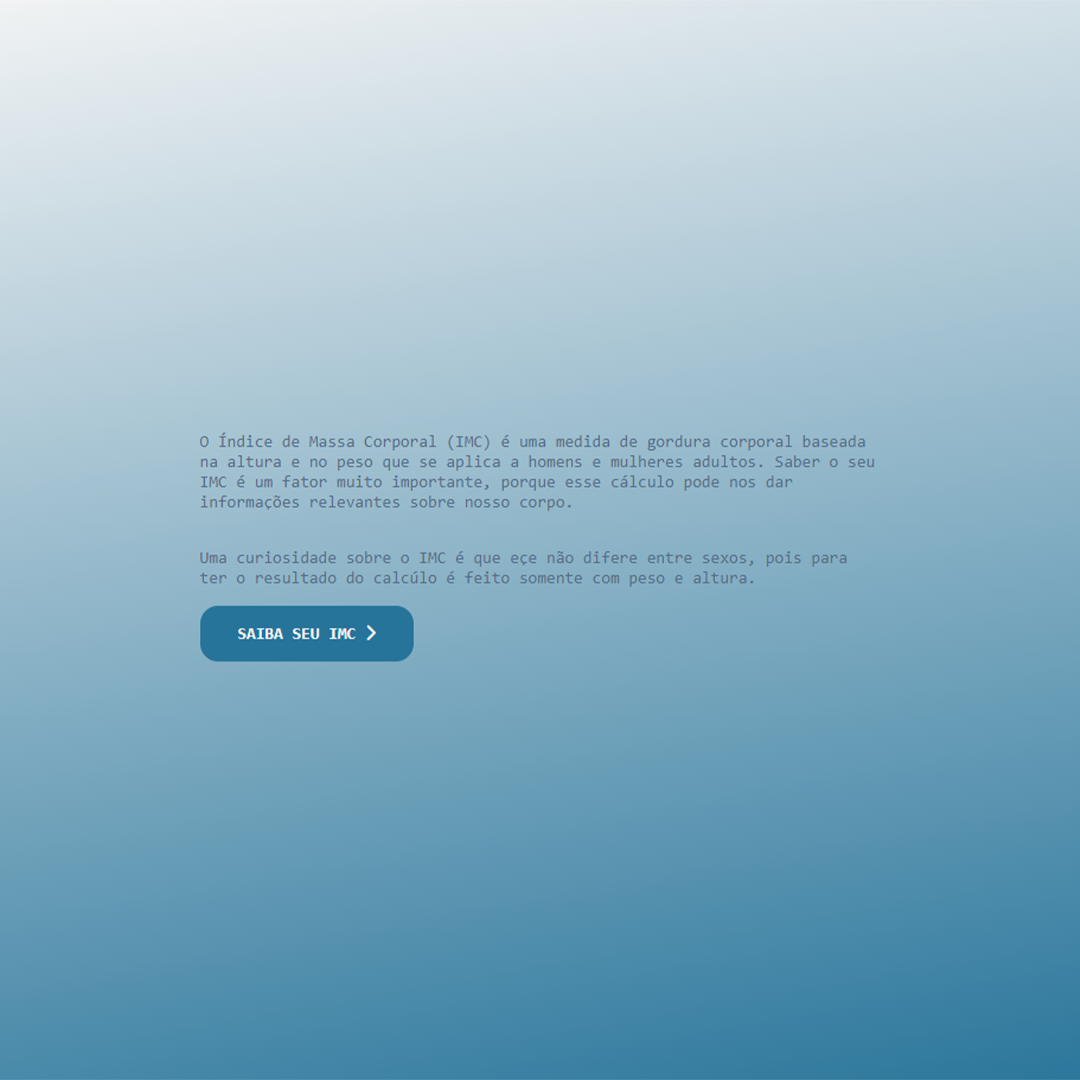
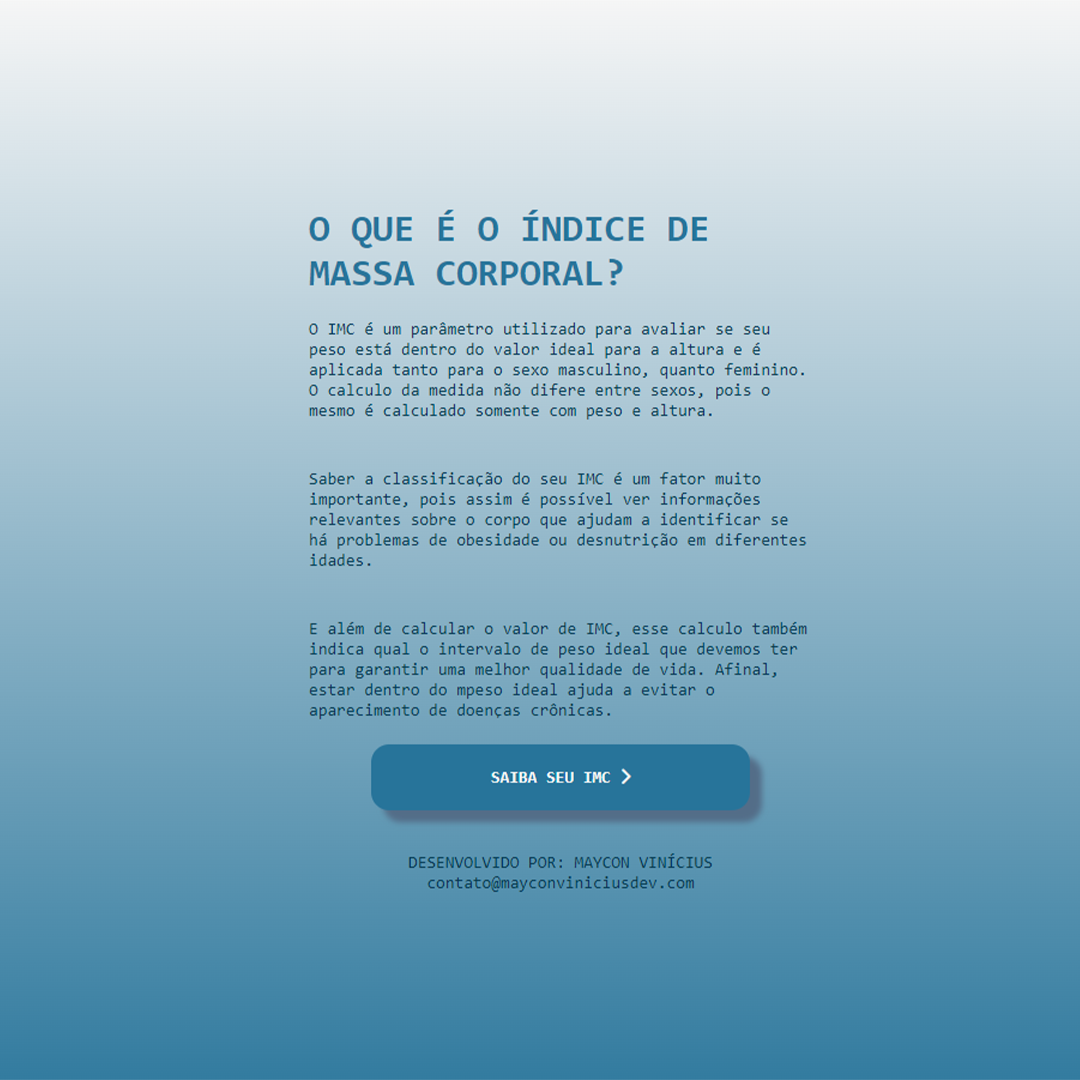
Alterações no projeto.

Changed region(s): [[0.1833, 0.1833, 0.7944, 0.7639], [0.6722, 0.0, 1.0, 0.3667], [0.3667, 0.7944, 0.6722, 0.825]]

diff --git a/calculation.html b/calculation.html
@@ -12,20 +12,82 @@
     </head>
 
     <body>
-        <div class="imc">
-            <a class="back" href="index.html"><i class="fa-solid fa-chevron-left"></i> VOLTAR</a>
-            <h2>PREENCHA SUAS</h2>
-            <h2>INFORMAÇÕES ABAIXO:</h2>
+        <div class="content">
+            <div class="text">
+                <a class="back" href="index.html"><i class="fa-solid fa-chevron-left"></i> VOLTAR PARA O ÍNICIO</a>
+                <h2>COMO INTERPRETAR O RESULTADO DO IMC?</h2>
+                <p>O resultado do IMC, deve ser interpretado utilizando a seguinte tabela:</p>
+                
+                <table>
+                    <thead>
+                        <tr>
+                            <th>ÍNDICE MASSA CORPORAL (kg/m<sup>2</sup>)</th>
+                            <th>CLASSIFICAÇÃO</th>
+                        </tr>
+                    </thead>
 
-            <p>Sua altura (exemplo: 1,68)</p>
-            <input type="number" name="altura" id="altura" placeholder="00.0 m">
+                    <tbody>
+                        <tr>
+                            <td>ENTRE 16 - 16.9</td>
+                            <td>MAGREZA</td>
+                        </tr>
 
-            <p>Seu peso (exemplo: 72)</p>
-            <input type="number" name="peso" id="peso" placeholder="00.0 kg"><br>
-        
-            <button>CALCULAR IMC <i class="fa-solid fa-chevron-right"></i></button><br>
-            <div id="resultado"></div>
-        </div><!-- imc -->
+                        <tr>
+                            <td>ENTRE 17 - 18.4</td>
+                            <td>PESO BAIXO</td>
+                        </tr>
+
+                        <tr>
+                            <td>ENTRE 18.5 - 24.9</td>
+                            <td>PESO NORMAL</td>
+                        </tr>
+
+                        <tr>
+                            <td>ENTRE 25 - 29.9</td>
+                            <td>SOBREPESO</td>
+                        </tr>
+
+                        <tr>
+                            <td>ENTRE 30 - 34.9</td>
+                            <td>OBESIDADE GRAU I</td>
+                        </tr>
+
+                        <tr>
+                            <td>ENTRE 35 - 39.9</td>
+                            <td>OBESIDADE GRAU II</td>
+                        </tr>
+
+                        <tr>
+                            <td>MAIOR QUE 40</td>
+                            <td>OBESIDADE GRAU III</td> 
+                        </tr>
+                    </tbody>
+                </table>
+
+                <p>É interessante que o resultado do IMC seja interpretado com um nutricionista, que poderá indicar uma dieta de acordo com seus objetivos e histórico de saúde.</p>
+                <p>Embora o IMC seja uma boa ferramenta para entender se seu peso está ou não adequado, o mesmo não é a melhor forma de avaliação. O ideal é consultar um nutricionista para avaliar seu IMC juntamente com outros fatores.</p>
+            </div><!-- text -->
+            
+            <div class="calc">
+                <h2>CALCULANDO SEU IMC</h2>
+                <p>Insire seus dados abaixo:</p>
+                <form>
+                    <p>Sua altura (exemplo: 1,68)</p>
+                    <input type="number" name="altura" id="altura" placeholder="00.0 m">
+
+                    <p>Seu peso (exemplo: 72)</p>
+                    <input type="number" name="peso" id="peso" placeholder="00.0 kg"><br>
+                </form>
+
+                <button>CALCULAR IMC <i class="fa-solid fa-chevron-right"></i></button><br>
+                <div id="resultado"></div>
+            </div><!-- calc -->
+
+            <footer>
+                <ul><a href="#"><i class="fas fa-long-arrow-alt-up"></i>IR PARA O TOPO</a></ul>
+                <p>DESENVOLVIDO POR: MAYCON VINÍCIUS<br><span>contato@mayconviniciusdev.com</span></p>
+            </footer>
+        </div><!-- content -->
     
         <script src="assets/js/jquery360min.js"></script>
         <script src="assets/js/scripts.js"></script>

diff --git a/assets/scss/calculation.scss b/assets/scss/calculation.scss
@@ -1,50 +1,77 @@
 @import 'global.scss';
 
-.imc 
-{
-    .back 
-    {font-size: 12px; 
-    text-decoration: none;
-    margin-bottom: 8%;
-    color: #4C4C4C;
-    display: inline-block;}
+.content
+{max-width: 550px;
+margin: 5%;
 
-    h2 {font-size: 20px; color: #536D88;}
+    a, p {font-size: 14px;}
+    .text 
+    {color: #013750;
+        
+        .back 
+        {text-decoration: none;
+        margin-bottom: 3%;
+        color: #013750 !important;
+        display: inline-block;}
 
-    p
-    {font-size: 14px;
-    color: #536D88;
-    font-weight: 300;
-    margin: 25px 0 10px 0;}
-
-    input
-    {border-radius: 12px;
-    border: 1px solid #27749a;
-    height: 40px;
-    background-color: transparent;
-        &[type=number] 
-        {outline: none;
-        display: block;
-        padding: 0 15px;
-        font-size: 14px;
-        color: #27749a;
-        font-weight: 400;}
+        p {margin-top: 10px;}
+        table 
+        {-webkit-box-shadow: 0px 0px 20px 10px rgba(83,109,136,1);
+        -moz-box-shadow: 0px 0px 20px 10px rgba(83,109,136,1);
+        box-shadow: 0px 0px 20px 10px rgba(83,109,136,1);
+        width: 100%;
+        margin: 35px 0;
+            th, td {padding: 10px; font-weight: bold;}
+            thead {background-color: #013750; color: #F6F6F6; font-size: 18px}
+            tbody tr:nth-child(even) {background-color: #536D88; color: #F6F6F6;}
+        }
     }
+
+    .calc 
+    {color: #27749a;
+    padding-top: 60px;
+    display: grid;
+    justify-content: center;
     
-    button
-    {background-color: #27749a;
-    cursor: pointer;
-    padding: 10px;
-    color: #F6F6F6;
-    font-weight: bold;    
-    line-height: 25px;
-    border: 0;
-    border-radius: 15px;}
+        p {margin-top: 5px; color: #013750;}
+        form 
+        {
+            p {margin-top: 30px;}
+            input
+            {border-radius: 10px;
+            width: 100%;
+            margin-top: 10px;
+            height: 40px;
+            border: 1px solid #27749a;
+            background-color: transparent;
+                &[type=number] 
+                {outline: none;
+                display: block;
+                padding: 0 15px;
+                color: #013750;
+                font-weight: 400;
+                    &::-webkit-input-placeholder {color: #013750;}
+                }
+            }        
+        } 
 
-    #resultado 
-    {color: #536D88;
-    font-size: 14px;
-    margin-top: 15px;}
-} 
+        button 
+        {background-color: #013750;
+        cursor: pointer;
+        padding: 15px;
+        color: #F6F6F6;
+        width: 100%;
+        font-weight: bold;    
+        line-height: 25px;
+        border: 0;
+        border-radius: 15px;
+        -webkit-box-shadow: 10px 10px 5px 0px rgba(83,109,136,1);
+        -moz-box-shadow: 10px 10px 5px 0px rgba(83,109,136,1);
+        box-shadow: 10px 10px 5px 0px rgba(83,109,136,1);}
 
+        #resultado 
+        {color: #013750;
+        margin-top: 10px;}
+    }
 
+}

diff --git a/assets/css/calculation.css b/assets/css/calculation.css
@@ -1,1 +1,1 @@
-@import"https://fonts.googleapis.com/css2?family=Roboto:wght@300;400&display=swap";*{margin:0;padding:0;box-sizing:border-box;font-family:"Roboto Mono",monospace}body{display:flex;justify-content:center;align-items:center;min-height:100vh;background:linear-gradient(350deg, #27749a, #F6F6F6)}.imc .back{font-size:12px;text-decoration:none;margin-bottom:8%;color:#4c4c4c;display:inline-block}.imc h2{font-size:20px;color:#536d88}.imc p{font-size:14px;color:#536d88;font-weight:300;margin:25px 0 10px 0}.imc input{border-radius:12px;border:1px solid #27749a;height:40px;background-color:rgba(0,0,0,0)}.imc input[type=number]{outline:none;display:block;padding:0 15px;font-size:14px;color:#27749a;font-weight:400}.imc button{background-color:#27749a;cursor:pointer;padding:10px;color:#f6f6f6;font-weight:bold;line-height:25px;border:0;border-radius:15px}.imc #resultado{color:#536d88;font-size:14px;margin-top:15px}
+@import"https://fonts.googleapis.com/css2?family=Roboto:wght@300;400&display=swap";*{margin:0;padding:0;box-sizing:border-box;font-family:"Roboto Mono",monospace}body{display:flex;justify-content:center;align-items:center;min-height:100vh;background:linear-gradient(360deg, #27749a, #F6F6F6)}footer{text-align:center;color:#004369}footer ul{list-style-type:none}footer ul a{color:#013750;text-decoration:none}footer ul i{font-size:15px;margin:0px 10px;color:#013750}footer p{margin:15px 0;font-size:14px}.content{max-width:550px;margin:5%}.content a,.content p{font-size:14px}.content .text{color:#013750}.content .text .back{text-decoration:none;margin-bottom:3%;color:#013750 !important;display:inline-block}.content .text p{margin-top:10px}.content .text table{-webkit-box-shadow:0px 0px 20px 10px #536d88;-moz-box-shadow:0px 0px 20px 10px #536d88;box-shadow:0px 0px 20px 10px #536d88;width:100%;margin:35px 0}.content .text table th,.content .text table td{padding:10px;font-weight:bold}.content .text table thead{background-color:#013750;color:#f6f6f6;font-size:18px}.content .text table tbody tr:nth-child(even){background-color:#536d88;color:#f6f6f6}.content .calc{color:#27749a;padding-top:60px;display:grid;justify-content:center}.content .calc p{margin-top:5px;color:#013750}.content .calc form p{margin-top:30px}.content .calc form input{border-radius:10px;width:100%;margin-top:10px;height:40px;border:1px solid #27749a;background-color:rgba(0,0,0,0)}.content .calc form input[type=number]{outline:none;display:block;padding:0 15px;color:#013750;font-weight:400}.content .calc form input[type=number]::-webkit-input-placeholder{color:#013750}.content .calc button{background-color:#013750;cursor:pointer;padding:15px;color:#f6f6f6;width:100%;font-weight:bold;line-height:25px;border:0;border-radius:15px;-webkit-box-shadow:10px 10px 5px 0px #536d88;-moz-box-shadow:10px 10px 5px 0px #536d88;box-shadow:10px 10px 5px 0px #536d88}.content .calc #resultado{color:#013750;margin-top:10px}

diff --git a/index.html b/index.html
@@ -12,10 +12,16 @@
     </head>
     
     <body>
-        <div class="content">
-            <p>O Índice de Massa Corporal (IMC) é uma medida de gordura corporal baseada na altura e no peso que se aplica a homens e mulheres adultos. Saber o seu IMC é um fator muito importante, porque esse cálculo pode nos dar informações relevantes sobre nosso corpo.</p>
-            <p>Uma curiosidade sobre o IMC é que eçe não difere entre sexos, pois para ter o resultado do calcúlo é feito somente com peso e altura.</p>
+        <div class="content"> 
+            <h1>O QUE É O ÍNDICE DE MASSA CORPORAL?</h1>
+            <p>O IMC é um parâmetro utilizado para avaliar se seu peso está dentro do valor ideal para a altura e é aplicada tanto para o sexo masculino, quanto feminino. O calculo da medida não difere entre sexos, pois o mesmo é calculado somente com peso e altura.</p>
+            <p>Saber a classificação do seu IMC é um fator muito importante, pois assim é possível ver informações relevantes sobre o corpo que ajudam a identificar se há problemas de obesidade ou desnutrição em diferentes idades.</p>
+            <p>E além de calcular o valor de IMC, esse calculo também indica qual o intervalo de peso ideal que devemos ter para garantir uma melhor qualidade de vida. Afinal, estar dentro do mpeso ideal ajuda a evitar o aparecimento de doenças crônicas.</p>
             <a class="btn" href="calculation.html"><p>SAIBA SEU IMC <i class="fa-solid fa-chevron-right"></i></p></a>
+
+            <footer>
+                <p>DESENVOLVIDO POR: MAYCON VINÍCIUS<br><span>contato@mayconviniciusdev.com</span></p>
+            </footer>
         </div><!-- content -->
     </body>
 </html>

diff --git a/assets/css/index.css b/assets/css/index.css
@@ -1,1 +1,1 @@
-@import"https://fonts.googleapis.com/css2?family=Roboto:wght@300;400&display=swap";*{margin:0;padding:0;box-sizing:border-box;font-family:"Roboto Mono",monospace}body{display:flex;justify-content:center;align-items:center;min-height:100vh;background:linear-gradient(350deg, #27749a, #F6F6F6)}.content p{margin:0 2%;color:#536d88;max-width:600px;padding:15px 0;font-size:14px}.content a{text-decoration:none;text-align:center}.content .btn p{background-color:#27749a;color:#f6f6f6;font-weight:bold;width:30%;border-radius:15px}
+@import"https://fonts.googleapis.com/css2?family=Roboto:wght@300;400&display=swap";*{margin:0;padding:0;box-sizing:border-box;font-family:"Roboto Mono",monospace}body{display:flex;justify-content:center;align-items:center;min-height:100vh;background:linear-gradient(360deg, #27749a, #F6F6F6)}footer{text-align:center;color:#004369}footer ul{list-style-type:none}footer ul a{color:#013750;text-decoration:none}footer ul i{font-size:15px;margin:0px 10px;color:#013750}footer p{margin:15px 0;font-size:14px}.content{max-width:420px;margin:5%;display:grid;justify-items:center}.content h1{color:#27749a;font-size:32px}.content p{padding:20px 0;color:#013750;font-size:14px}.content a{text-decoration:none}.content .btn p{background-color:#27749a;color:#f6f6f6;font-weight:bold;line-height:25px;padding:15px 100px;text-align:center;border-radius:15px;-webkit-box-shadow:10px 10px 5px 0px #536d88;-moz-box-shadow:10px 10px 5px 0px #536d88;box-shadow:10px 10px 5px 0px #536d88}

diff --git a/assets/scss/index.scss b/assets/scss/index.scss
@@ -1,20 +1,24 @@
 @import 'global.scss';
 
 .content 
-{
-    p 
-    {margin: 0 2%;
-    color: #536D88;
-    max-width: 600px;
-    padding: 15px 0;
-    font-size: 14px;}
+{max-width: 420px;
+margin: 5%;
+display: grid;
+justify-items: center;
 
-    a {text-decoration: none; text-align: center;}
+    h1 {color: #27749A; font-size: 32px;}
+    p {padding: 20px 0; color: #013750; font-size: 14px;}
+    a {text-decoration: none;}
 
     .btn p 
-    {background-color: #27749a;
+    {background-color: #27749A;
     color: #F6F6F6;
     font-weight: bold;
-    width: 30%;
-    border-radius: 15px;}
+    line-height: 25px;
+    padding: 15px 100px;
+    text-align: center;
+    border-radius: 15px;
+    -webkit-box-shadow: 10px 10px 5px 0px rgba(83,109,136,1);
+    -moz-box-shadow: 10px 10px 5px 0px rgba(83,109,136,1);
+    box-shadow: 10px 10px 5px 0px rgba(83,109,136,1);}
 }

diff --git a/assets/scss/global.scss b/assets/scss/global.scss
@@ -10,4 +10,15 @@ body
 justify-content: center;
 align-items: center;
 min-height: 100vh;
-background: linear-gradient(350deg, #27749a, #F6F6F6);}
+background: linear-gradient(360deg, #27749a, #F6F6F6);}
+
+footer 
+{text-align: center;
+color: #004369;
+    ul 
+    {list-style-type: none;
+        a {color: #013750; text-decoration: none;}
+        i {font-size: 15px; margin: 0px 10px; color: #013750;} }
+
+    p {margin: 15px 0; font-size: 14px;}
+}

diff --git a/README.md b/README.md
@@ -13,3 +13,4 @@
 ## Imagens do projeto finalizado.
 <img src="assets/images/projetoFinal1.png">
 <img src="assets/images/projetoFinal2.png">
+<img src="assets/images/projetoFinal3.png">
